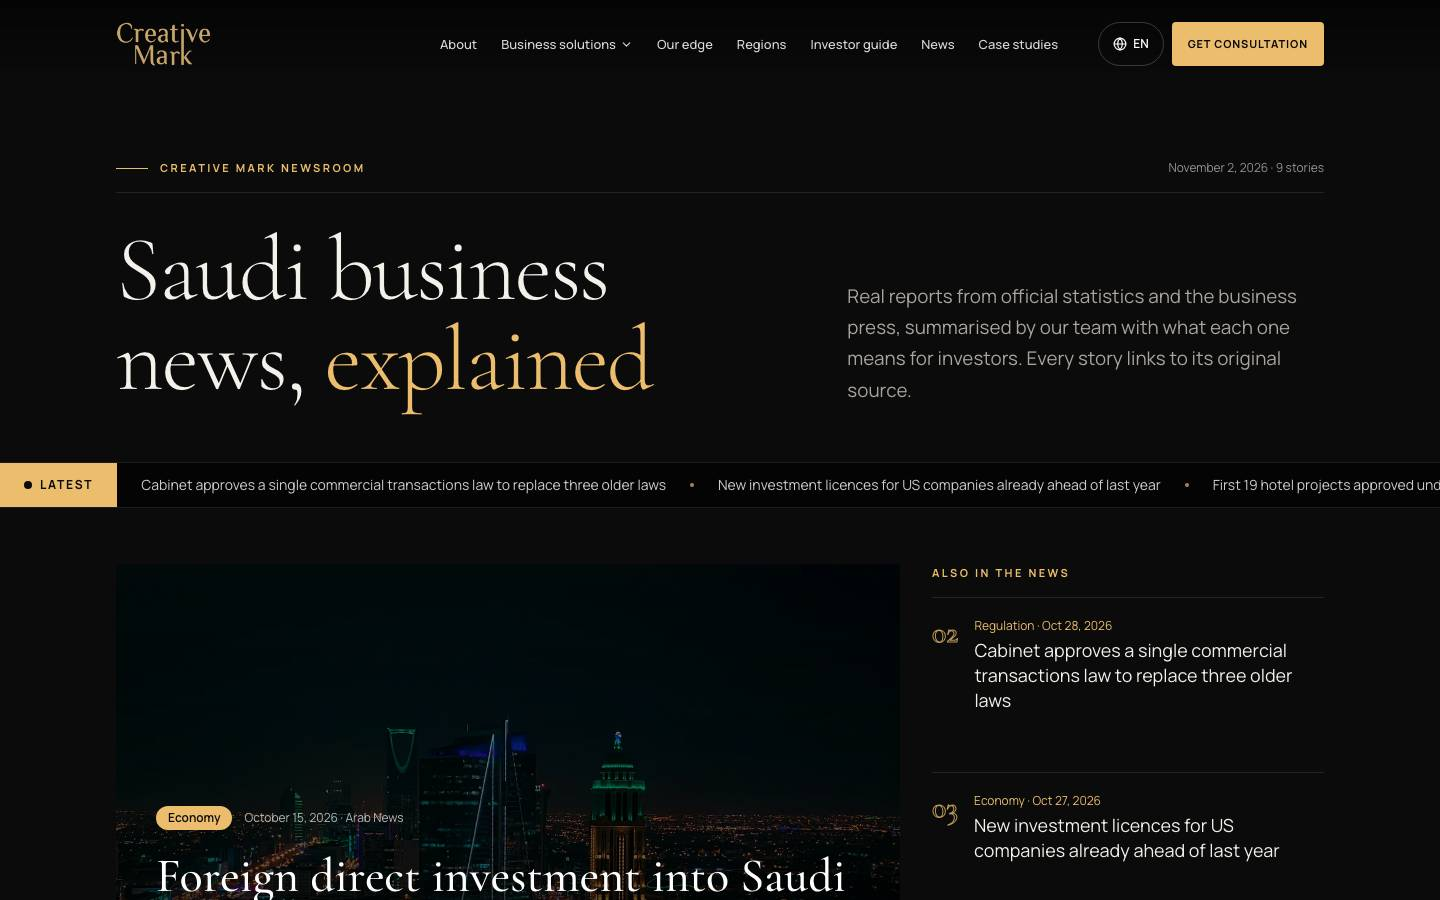
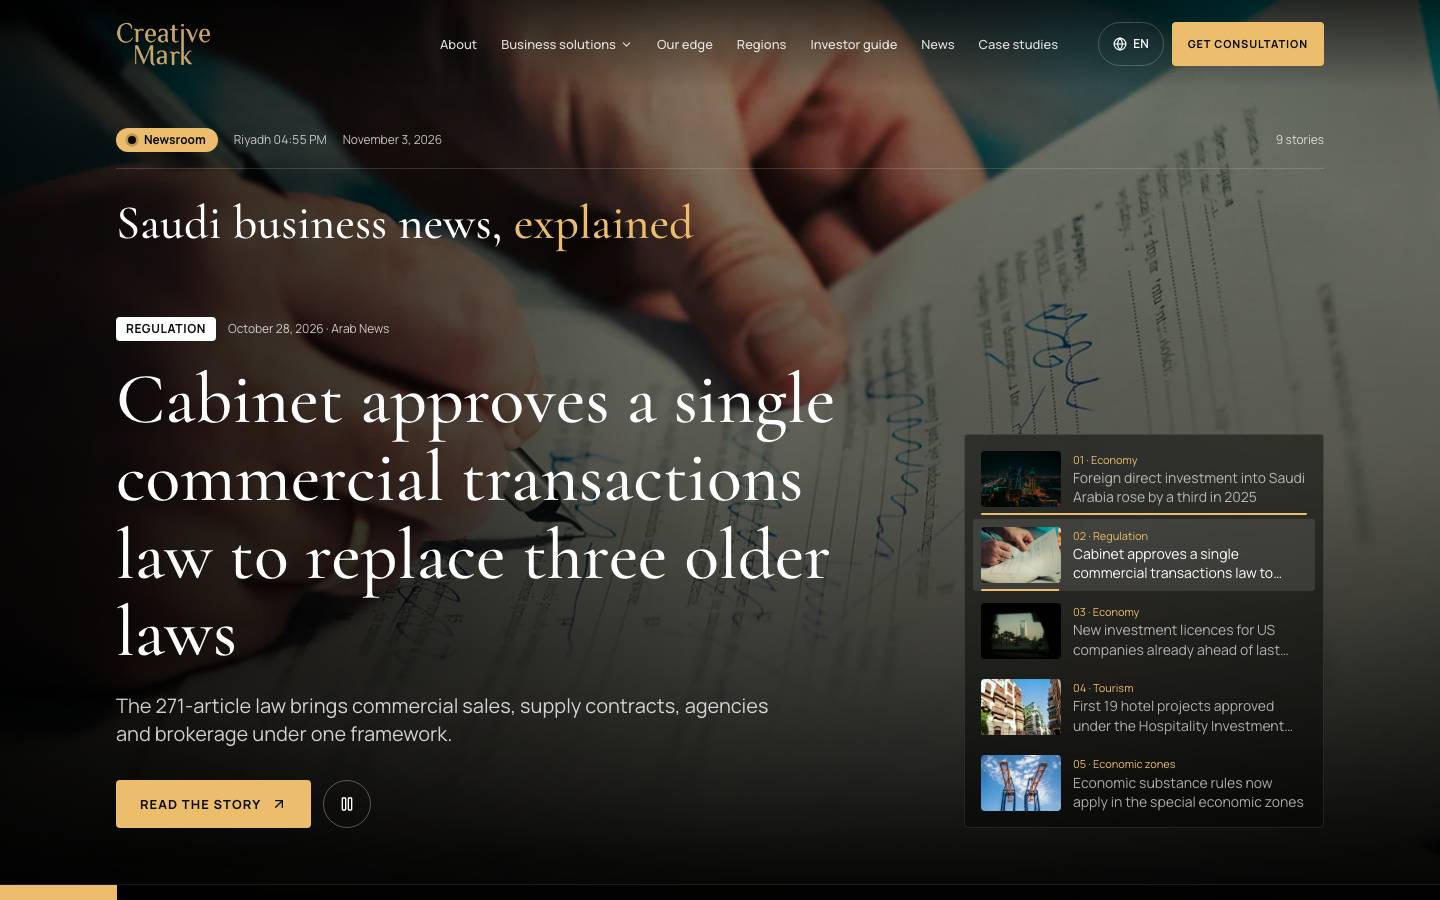
Newsroom: full-screen broadcast opening with top stories playlist
- Top five stories play one after another (photo wipe and pull-back shared with the home hero)
- Newsroom bar with live Riyadh time and date, playlist with thumbnails and progress, pause control
- Headline copy rises in per story; reduced motion keeps everything still

diff --git a/resources/js/sections/news/NewsLead.tsx b/resources/js/sections/news/NewsLead.tsx
@@ -1,71 +1,118 @@
-import { ArrowUpRight } from 'lucide-react'
+import { useEffect, useRef, useState } from 'react'
+import { ArrowUpRight, Pause, Play } from 'lucide-react'
 import Media from '@/components/Media'
 import SmartLink from '@/components/SmartLink'
 import { useSite } from '@/hooks/useSite'
+import { useSlideshow } from '../Hero/useSlideshow'
 import { HighlightedTitle } from '../shared/SectionHeading'
-import { headingMotion } from '../shared/motionAttributes'
 import type { SectionProps } from '../shared/types'
 import { categoryKey, formatNewsDate } from './format'
 import NewsTicker from './NewsTicker'
 
+const STORIES = 5
+
 /** The lead story: the newest featured article, otherwise the newest one. */
 export const leadStory = (articles: SectionProps['page']['articles'] = []) => articles.find(a => a.featured) ?? articles[0]
 
+/** Live Riyadh clock for the broadcast bar (rendered after mount, so server and client markup match). */
+function RiyadhClock({ localeTag }: { localeTag: string }) {
+  const [now, setNow] = useState<Date | null>(null)
+  useEffect(() => {
+    setNow(new Date())
+    const id = window.setInterval(() => setNow(new Date()), 30_000)
+    return () => window.clearInterval(id)
+  }, [])
+  if (!now) return null
+  return <time dateTime={now.toISOString()} className="tabular-nums">
+    {new Intl.DateTimeFormat(localeTag, { hour: '2-digit', minute: '2-digit', timeZone: 'Asia/Riyadh', numberingSystem: 'latn' }).format(now)}
+  </time>
+}
+
 /**
- * Newsroom masthead: title and date line, the scrolling "Latest" ticker, then the lead story as a
- * full-bleed photograph with three more headlines beside it.
+ * Broadcast-style opening: the top stories fill the screen one after another (photo wipe + slow pull-back,
+ * shared with the home hero), with a newsroom bar, a "top stories" playlist and the latest-headlines ticker.
+ * Pausable; with reduced motion nothing moves and stories change only when chosen.
  */
 export default function NewsLead({ section, page }: SectionProps) {
   const { t, locale } = useSite()
   const articles = page.articles ?? []
   const lead = leadStory(articles)
-  const others = articles.filter(a => a !== lead).slice(0, 3)
+  const stories = lead ? [lead, ...articles.filter(a => a !== lead)].slice(0, STORIES) : []
+  const layers = useRef<(HTMLDivElement | null)[]>([])
+  const photos = useRef<(HTMLDivElement | null)[]>([])
+  const progress = useRef<(HTMLSpanElement | null)[]>([])
+  const show = useSlideshow(stories.length, { layers, photos, progress })
+  const story = stories[show.active]
   const today = new Date().toISOString().slice(0, 10)
 
-  return <section id={section.id} aria-labelledby={`${section.id}-title`} className="th-dark relative overflow-hidden">
-    <div className="wrap pb-10 pt-32 md:pb-14 md:pt-40" {...headingMotion(section)}>
-      <div className="mb-8 flex flex-wrap items-center justify-between gap-3 border-b border-white/10 pb-4 text-xs text-white/55">
-        <p className="eyebrow flex items-center gap-3"><span className="h-px w-8 bg-current" aria-hidden />{section.eyebrow}</p>
-        <p><time dateTime={today}>{formatNewsDate(today, locale.tag)}</time> · {articles.length} {t('stories')}</p>
-      </div>
-      <div className="grid gap-6 lg:grid-cols-[1.4fr_1fr] lg:items-end lg:gap-16">
-        <h1 id={`${section.id}-title`} className="font-display t-display-xl"><HighlightedTitle title={section.title ?? ''} highlight={section.highlight} /></h1>
-        {section.subtitle && <p className="t-body-l muted measure">{section.subtitle}</p>}
-      </div>
+  return <section id={section.id} aria-labelledby={`${section.id}-title`} className="th-dark relative isolate flex min-h-[100svh] flex-col overflow-hidden bg-black">
+    {/* Photos */}
+    <div className="absolute inset-0 -z-10" aria-hidden>
+      {stories.map((s, i) => <div key={s.slug} ref={el => { layers.current[i] = el }} className="absolute inset-0 overflow-hidden" style={{ opacity: i === 0 ? 1 : 0 }}>
+        <div ref={el => { photos.current[i] = el }} className="h-full w-full will-change-transform">
+          <Media media={page.media[s.media]} decorative eager={i === 0} sizes="100vw" className="h-full w-full" />
+        </div>
+      </div>)}
+      <div className="absolute inset-0 z-[3] bg-gradient-to-t from-black via-black/55 to-black/30" />
+      <div className="absolute inset-0 z-[3] bg-gradient-to-r from-black/70 via-transparent to-transparent rtl:bg-gradient-to-l" />
+      <div className="hero-vignette absolute inset-0 z-[3]" />
+      <div className="hero-grain absolute z-[3] motion-reduce:hidden" />
     </div>
 
-    <NewsTicker items={articles.slice(0, 8)} />
+    {/* Newsroom bar */}
+    <div className="wrap pt-28 md:pt-32">
+      <div className="flex flex-wrap items-center gap-x-4 gap-y-2 border-b border-white/15 pb-4 text-xs text-white/75">
+        <span className="flex items-center gap-2 rounded-full bg-gold px-3 py-1 font-bold text-ink">
+          <span className="relative flex h-2 w-2" aria-hidden><span className="absolute inline-flex h-full w-full animate-ping rounded-full bg-ink/60 motion-reduce:animate-none" /><span className="relative inline-flex h-2 w-2 rounded-full bg-ink" /></span>
+          {t('liveNewsroom')}
+        </span>
+        <span>{t('riyadhTime')} <RiyadhClock localeTag={locale.tag} /></span>
+        <span className="hidden sm:inline"><time dateTime={today}>{formatNewsDate(today, locale.tag)}</time></span>
+        <span className="ms-auto">{articles.length} {t('stories')}</span>
+      </div>
+      <h1 id={`${section.id}-title`} className="font-display mt-6 max-w-2xl text-3xl leading-tight text-white md:text-5xl">
+        <HighlightedTitle title={section.title ?? ''} highlight={section.highlight} />
+      </h1>
+    </div>
 
-    {lead && <div className="wrap grid gap-6 py-10 md:py-14 lg:grid-cols-[2fr_1fr] lg:gap-8">
-      <SmartLink href={`/news/${lead.slug}`} className="group relative block min-h-[460px] overflow-hidden rounded-[var(--cm-radius)] md:min-h-[560px]">
-        <Media media={page.media[lead.media]} eager sizes="(min-width: 1024px) 66vw, 100vw"
-          className="absolute inset-0 h-full w-full transition duration-[1.6s] ease-[var(--ease-out)] group-hover:scale-[1.04]" data-motion="zoom-in" />
-        <div className="absolute inset-0 bg-gradient-to-t from-black via-black/55 to-black/5" aria-hidden />
-        <div className="absolute inset-x-0 bottom-0 p-6 md:p-10">
-          <p className="mb-4 flex flex-wrap items-center gap-3 text-xs">
-            <span className="rounded-full bg-gold px-3 py-1 font-semibold text-ink">{t(categoryKey(lead.category))}</span>
-            <span className="text-white/70"><time dateTime={lead.date}>{formatNewsDate(lead.date, locale.tag)}</time> · {lead.source.name}</span>
-          </p>
-          <h2 className="font-display max-w-3xl text-3xl leading-tight text-white transition group-hover:text-gold md:text-5xl">{lead.title}</h2>
-          <p className="mt-4 max-w-2xl text-white/75 md:text-lg">{lead.excerpt}</p>
-          <span className="mt-6 inline-flex items-center gap-2 text-sm font-semibold text-gold">{t('readStory')}<ArrowUpRight size={16} className="flip-rtl" aria-hidden /></span>
+    {/* Active story + playlist */}
+    {story && <div className="wrap mt-auto grid gap-10 pb-10 pt-16 lg:grid-cols-[1fr_360px] lg:items-end lg:gap-16 lg:pb-14">
+      <div key={story.slug} className="news-story-in" aria-live="polite">
+        <p className="mb-5 flex flex-wrap items-center gap-3 text-xs">
+          <span className="rounded-sm bg-white px-2.5 py-1 font-bold uppercase tracking-wider text-ink">{t(categoryKey(story.category))}</span>
+          <span className="text-white/75"><time dateTime={story.date}>{formatNewsDate(story.date, locale.tag)}</time> · {story.source.name}</span>
+        </p>
+        <h2 className="font-display max-w-4xl text-[2.1rem] leading-[1.08] text-white sm:text-5xl lg:text-7xl">
+          <SmartLink href={`/news/${story.slug}`} className="transition hover:text-gold">{story.title}</SmartLink>
+        </h2>
+        <p className="mt-5 max-w-2xl text-white/80 md:text-xl">{story.excerpt}</p>
+        <div className="mt-8 flex flex-wrap items-center gap-3">
+          <SmartLink href={`/news/${story.slug}`} className="btn btn-gold">{t('readStory')}<ArrowUpRight size={16} className="flip-rtl" aria-hidden /></SmartLink>
+          {!show.reduced && <button type="button" onClick={show.togglePlaying} className="grid h-12 w-12 place-items-center rounded-full border border-white/30 text-white transition hover:border-gold hover:text-gold"
+            aria-label={show.playing ? t('pause') : t('play')}>{show.playing ? <Pause size={16} /> : <Play size={16} />}</button>}
         </div>
-      </SmartLink>
+      </div>
 
-      {others.length > 0 && <aside aria-labelledby={`${section.id}-also`} className="flex flex-col">
-        <h2 id={`${section.id}-also`} className="eyebrow mb-4">{t('alsoInNews')}</h2>
-        <ol className="flex flex-1 flex-col divide-y divide-white/10 border-y border-white/10">
-          {others.map((a, i) => <li key={a.slug} className="flex-1">
-            <SmartLink href={`/news/${a.slug}`} className="group flex h-full gap-4 py-5">
-              <span className="font-display text-3xl leading-none text-transparent [-webkit-text-stroke:1px_rgba(235,189,108,.8)]" aria-hidden>{String(i + 2).padStart(2, '0')}</span>
-              <span className="min-w-0">
-                <span className="mb-1 block text-xs text-gold">{t(categoryKey(a.category))} · <time dateTime={a.date}>{formatNewsDate(a.date, locale.tag, 'short')}</time></span>
-                <span className="block text-lg leading-snug transition group-hover:text-gold">{a.title}</span>
-              </span>
-            </SmartLink>
-          </li>)}
-        </ol>
-      </aside>}
+      <ol aria-label={t('topStories')} className="grid grid-cols-5 gap-2 lg:block lg:space-y-1 lg:rounded-[var(--cm-radius)] lg:border lg:border-white/10 lg:bg-black/45 lg:p-2 lg:backdrop-blur-md">
+        {stories.map((s, i) => <li key={s.slug}>
+          <button type="button" onClick={() => show.goTo(i)} aria-current={i === show.active ? 'true' : undefined} aria-label={`${t('showStory')}: ${s.title}`}
+            className={`group relative block w-full text-start transition lg:flex lg:items-center lg:gap-3 lg:rounded-[calc(var(--cm-radius)-1px)] lg:p-2 ${i === show.active ? 'lg:bg-white/10' : 'lg:hover:bg-white/5'}`}>
+            <span className="relative hidden h-14 w-20 shrink-0 overflow-hidden rounded-sm lg:block">
+              <Media media={page.media[s.media]} decorative sizes="80px" className="h-full w-full" />
+            </span>
+            <span className="hidden min-w-0 lg:block">
+              <span className="block text-[11px] text-gold">{String(i + 1).padStart(2, '0')} · {t(categoryKey(s.category))}</span>
+              <span className={`line-clamp-2 text-sm leading-snug ${i === show.active ? 'text-white' : 'text-white/65'}`}>{s.title}</span>
+            </span>
+            {/* Progress: a segment under each story (mobile) or a line under the active row (desktop) */}
+            <span className="relative block h-1 overflow-hidden rounded-full bg-white/20 lg:absolute lg:inset-x-2 lg:bottom-0 lg:h-0.5 lg:bg-transparent" aria-hidden>
+              <span ref={el => { progress.current[i] = el }} className="absolute inset-0 origin-left scale-x-0 bg-gold rtl:origin-right" />
+            </span>
+          </button>
+        </li>)}
+      </ol>
     </div>}
+
+    <NewsTicker items={articles.slice(0, 8)} />
   </section>
 }

diff --git a/resources/css/app.css b/resources/css/app.css
@@ -202,6 +202,12 @@ html[dir="rtl"] .measure { max-width: 56ch; }
 }
 
 @keyframes cm-rise { from { opacity: 0; transform: translateY(24px); } to { opacity: 1; transform: none; } }
+/* Newsroom: each story's copy rises in when it becomes active. */
+.news-story-in > * { animation: cm-rise .9s var(--ease-out) both; }
+.news-story-in > *:nth-child(2) { animation-delay: .08s; }
+.news-story-in > *:nth-child(3) { animation-delay: .16s; }
+.news-story-in > *:nth-child(4) { animation-delay: .24s; }
+@media (prefers-reduced-motion: reduce) { .news-story-in > * { animation: none; } }
 /* Newsroom ticker: two copies of the list slide by half their width; pauses for reading. */
 @keyframes cm-ticker { from { transform: translateX(0); } to { transform: translateX(-50%); } }
 .news-ticker-track { animation: cm-ticker 60s linear infinite; }

diff --git a/README.md b/README.md
@@ -74,7 +74,7 @@ public website and the dashboard its team uses to run it.
   overview, floating reading progress, an interactive twelve-step checklist saved in the browser and a library of
   29 official and advisory sources.
 - Newsroom: real market news summarised by the team, each story with what it means for investors, key figures and a
-  link to the original report; masthead with a scrolling "Latest" ticker, cinematic lead story, topic filter and a page
+  link to the original report; full-screen broadcast opening that plays the top stories, live Riyadh time, scrolling "Latest" ticker, topic filter and a page
   per story with related stories.
 - Interactive map of the 13 regions: keyboard operable, sector filter, list alternative, screen-reader announcements.
 - Motion system (GSAP, ScrollTrigger, Lenis): reveal, parallax, counters and line-draw presets chosen per section.
@@ -213,6 +213,10 @@ role × permission combination, dashboard access, two-factor enforcement and the
 - [Photo credits](docs/photo-credits.md)
 
 ## Changelog
+
+### 2026-11-03
+- Newsroom opening redesigned as a full-screen broadcast: top stories play one after another with a photo wipe and
+  slow pull-back, newsroom bar with live Riyadh time, top-stories playlist with progress, pause control.
 
 ### 2026-11-02
 - Newsroom in six languages: nine real 2026 stories (foreign investment, hospitality projects, US investment licences,
